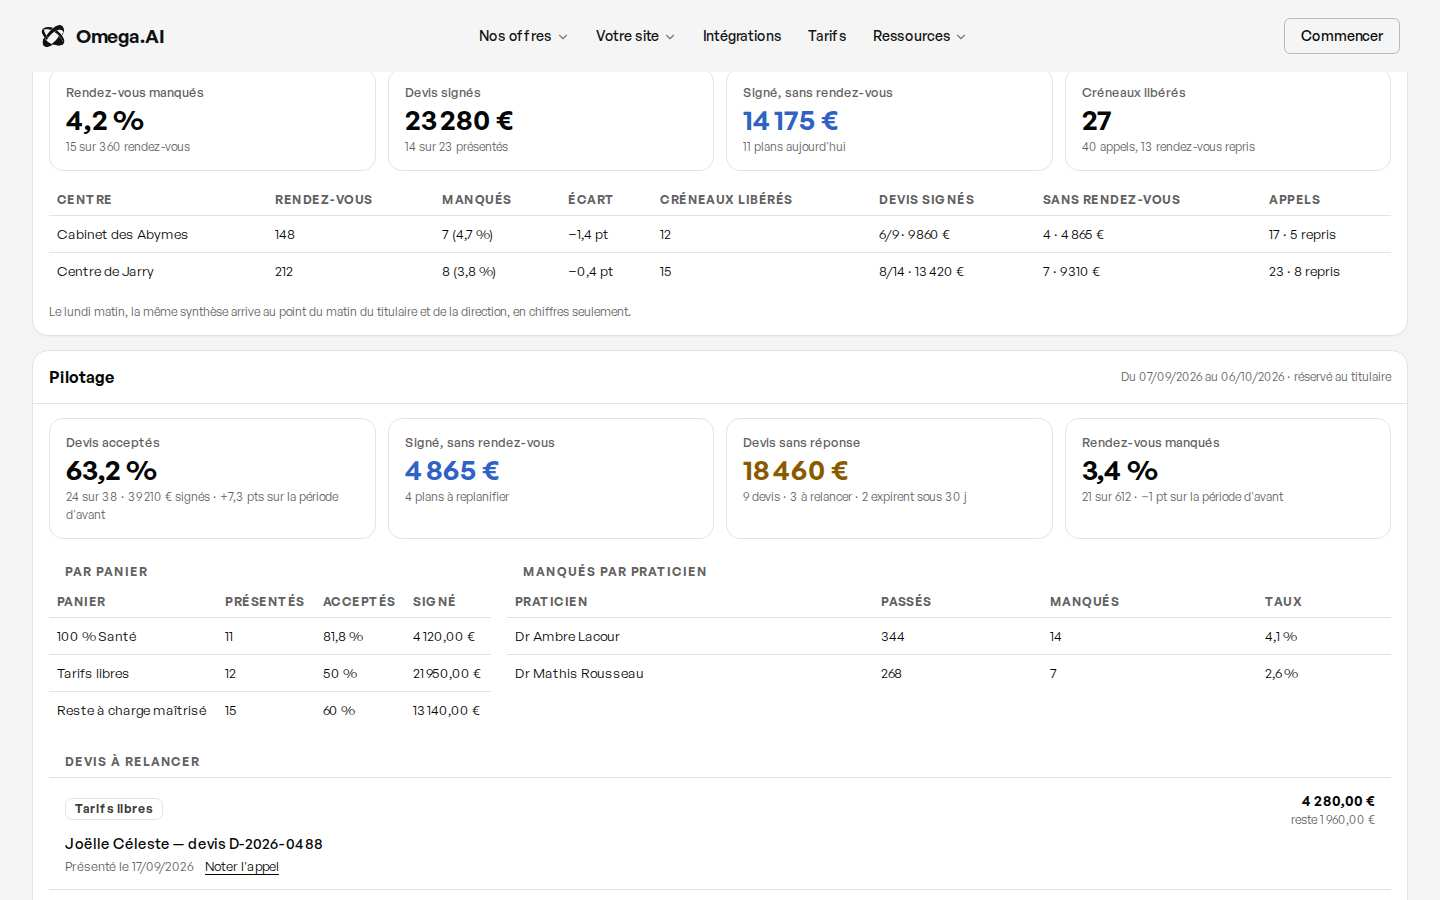
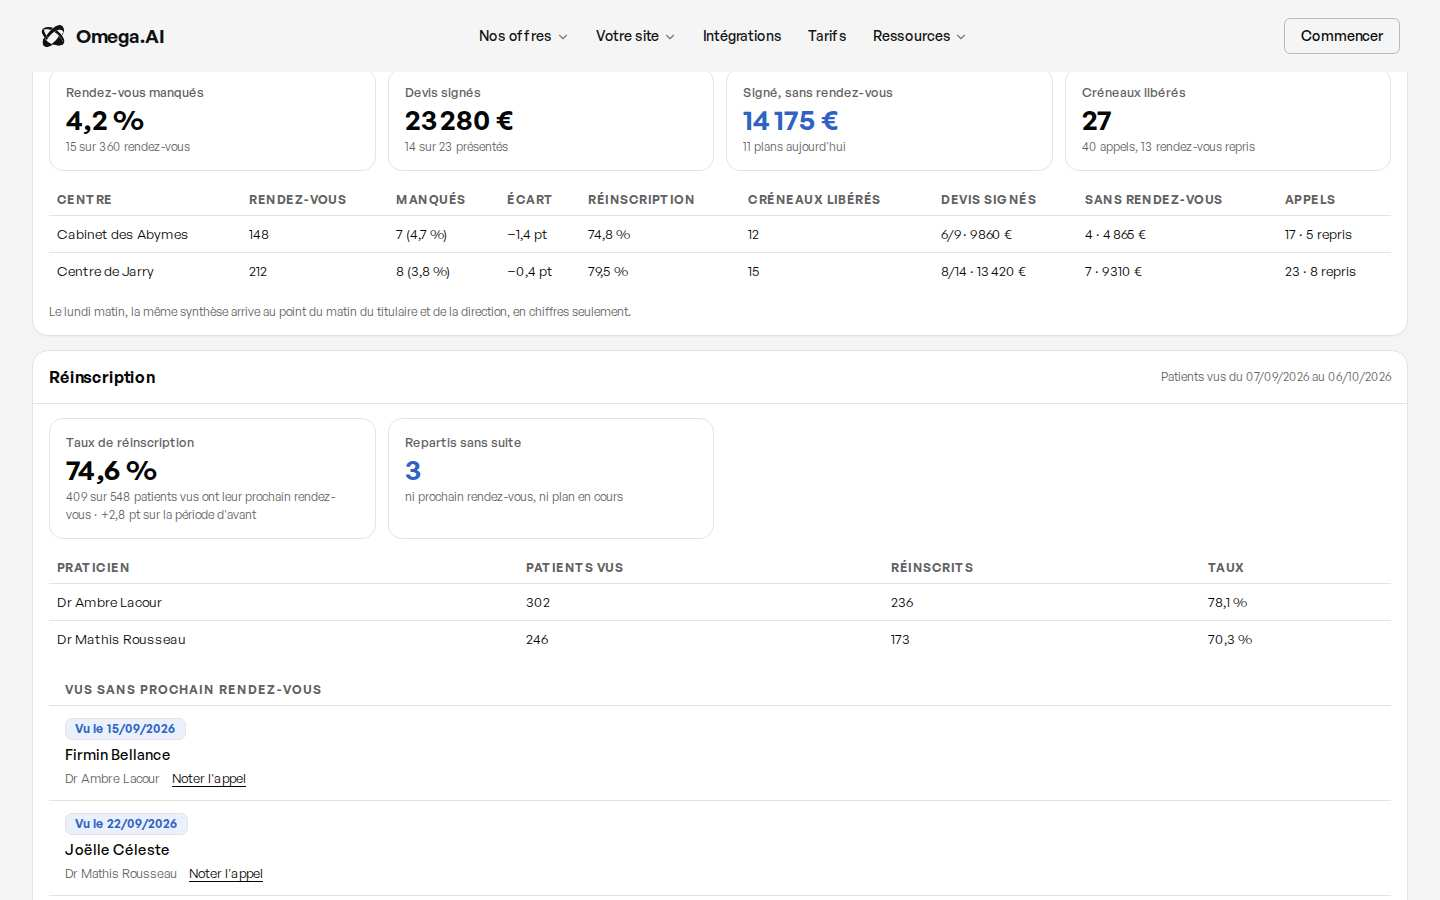
TIROMA (B3) : écran — carte « Réinscription », colonne réinscription dans la synthèse
Claude-Session: https://claude.ai/code/session_016947vqqcuBzgihDxHt7Aoo

diff --git a/components/espace/tiroma/Reinscription.tsx b/components/espace/tiroma/Reinscription.tsx
@@ -1,0 +1,85 @@
+"use client";
+
+/* La section « Réinscription » (06/10/2026, session B3, b3_16) : parmi les
+   patients vus ces trente derniers jours, la part qui a déjà son prochain
+   rendez-vous, et la période d'avant. Pour le titulaire et la direction, le
+   détail par praticien. Pour l'équipe, les patients repartis sans prochain
+   rendez-vous ni plan en cours : la liste des appels à refaire (la direction
+   n'y voit pas de nom). */
+
+import { Pastille, Vide } from "../ui";
+import { dateCourte } from "../format";
+import type { CibleAppel, Reinscription as ReinscriptionT } from "./types";
+
+function taux(v: number | null | undefined): string {
+  if (v === null || v === undefined) return "—";
+  return `${(v * 100).toLocaleString("fr-FR", { maximumFractionDigits: 1 })} %`;
+}
+
+export default function Reinscription({ reinscription, appeler }: { reinscription: ReinscriptionT | null; appeler?: (c: CibleAppel) => void }) {
+  if (!reinscription) return null;
+  const r = reinscription;
+  const ecart = r.taux !== null && r.precedent.taux !== null ? Math.round((r.taux - r.precedent.taux) * 1000) / 10 : null;
+  return (
+    <section id="tiroma-reinscription" className="esp-carte" aria-label="Réinscription">
+      <div className="esp-carte-tete">
+        <h2 className="esp-carte-titre">Réinscription</h2>
+        <span className="esp-kpi-sous">Patients vus du {dateCourte(r.periode.du)} au {dateCourte(r.periode.au)}</span>
+      </div>
+      <div className="esp-carte-corps" style={{ display: "grid", gap: 14 }}>
+        <div className="esp-kpis" style={{ marginBottom: 0 }}>
+          <div className="esp-kpi" data-teinte={r.taux !== null && r.taux < 0.6 ? "ambre" : undefined}>
+            <span className="esp-kpi-etiquette">Taux de réinscription</span>
+            <span className="esp-kpi-valeur">{taux(r.taux)}</span>
+            <span className="esp-kpi-sous">
+              {r.reinscrits} sur {r.visites} patients vus ont leur prochain rendez-vous
+              {ecart !== null ? ` · ${ecart === 0 ? "comme" : `${ecart > 0 ? "+" : "−"}${Math.abs(ecart).toLocaleString("fr-FR")} pt sur`} la période d'avant` : ""}
+            </span>
+          </div>
+          <div className="esp-kpi" data-teinte={r.sans_suite.length ? "bleu" : undefined}>
+            <span className="esp-kpi-etiquette">Repartis sans suite</span>
+            <span className="esp-kpi-valeur">{r.sans_suite.length}</span>
+            <span className="esp-kpi-sous">ni prochain rendez-vous, ni plan en cours</span>
+          </div>
+        </div>
+
+        {r.par_praticien.length ? (
+          <div className="esp-tableau-cadre" tabIndex={0} role="region" aria-label="Réinscription par praticien (tableau qui défile)">
+            <table className="esp-tableau">
+              <thead><tr><th>Praticien</th><th>Patients vus</th><th>Réinscrits</th><th>Taux</th></tr></thead>
+              <tbody>
+                {r.par_praticien.map((p) => (
+                  <tr key={p.praticien_id ?? "sans"}><td>{p.nom ?? "Sans praticien"}</td><td>{p.visites}</td><td>{p.reinscrits}</td><td>{taux(p.taux)}</td></tr>
+                ))}
+              </tbody>
+            </table>
+          </div>
+        ) : null}
+
+        <div>
+          <h3 className="esp-groupe-titre">Vus sans prochain rendez-vous</h3>
+          {!r.sans_suite.length ? (
+            <Vide titre="Personne à rappeler">Chaque patient vu ces trente derniers jours a son prochain rendez-vous, un plan en cours, ou un appel noté récemment.</Vide>
+          ) : (
+            <ul className="esp-liste" aria-label="Patients vus sans prochain rendez-vous">
+              {r.sans_suite.map((s) => (
+                <li key={s.patient_id} className="esp-item" style={{ cursor: "default" }}>
+                  <span className="esp-item-haut"><Pastille teinte="bleu" contour>Vu le {dateCourte(s.derniere_visite)}</Pastille></span>
+                  <span className="esp-item-titre">{s.patient_nom}</span>
+                  <span className="esp-item-bas">
+                    {s.praticien ? <span>{s.praticien}</span> : null}
+                    {appeler && s.patient_nom !== "Patient du cabinet" ? (
+                      <button type="button" className="esp-lien-bouton" onClick={() => appeler({ patient_id: s.patient_id, patient_nom: s.patient_nom, motif: "controle", plan_id: null, evenement_id: null })}>
+                        Noter l&apos;appel
+                      </button>
+                    ) : null}
+                  </span>
+                </li>
+              ))}
+            </ul>
+          )}
+        </div>
+      </div>
+    </section>
+  );
+}

diff --git a/components/espace/tiroma/exemple.ts b/components/espace/tiroma/exemple.ts
@@ -251,17 +251,34 @@ export const DOSSIER_EXEMPLE: Dossier = {
         rdv: { passes: 148, honores: 141, manques: 7, annules: 12, taux_manques: 0.047 }, creneaux: { liberes: 12 },
         devis: { presentes: 9, signes: 6, taux: 0.667, montant_signe: 9860 }, plans_sans_rdv: { nombre: 4, montant: 4865 },
         appels: { appels: 17, rdv_pris: 6, confirmes: 5 }, rappels: { prepares: 61, envoyes: 0, retenus: 61 },
-        precedent: { taux_manques: 0.061, devis_signes: 4, devis_taux: 0.5, passes: 152 },
+        reinscription: { visites: 131, reinscrits: 98, taux: 0.748 },
+        precedent: { taux_manques: 0.061, devis_signes: 4, devis_taux: 0.5, passes: 152, reinscription_taux: 0.712 },
       },
       {
         entite_id: "00000000-0000-4000-8000-0000000000e2", nom: "Centre de Jarry",
         rdv: { passes: 212, honores: 204, manques: 8, annules: 15, taux_manques: 0.038 }, creneaux: { liberes: 15 },
         devis: { presentes: 14, signes: 8, taux: 0.571, montant_signe: 13420 }, plans_sans_rdv: { nombre: 7, montant: 9310 },
         appels: { appels: 23, rdv_pris: 9, confirmes: 8 }, rappels: { prepares: 88, envoyes: 0, retenus: 88 },
-        precedent: { taux_manques: 0.042, devis_signes: 9, devis_taux: 0.6, passes: 205 },
+        reinscription: { visites: 190, reinscrits: 151, taux: 0.795 },
+        precedent: { taux_manques: 0.042, devis_signes: 9, devis_taux: 0.6, passes: 205, reinscription_taux: 0.781 },
       },
     ],
     total: { passes: 360, manques: 15, taux_manques: 0.042, creneaux_liberes: 27, devis_presentes: 23, devis_signes: 14, montant_signe: 23280,
-             plans_sans_rdv: 11, montant_plans_sans_rdv: 14175, appels: 40, rdv_confirmes: 13 },
+             plans_sans_rdv: 11, montant_plans_sans_rdv: 14175, appels: 40, rdv_confirmes: 13, visites: 321, reinscrits: 249, reinscription_taux: 0.776 },
+  },
+  /* b3_16 : trente jours de réinscription */
+  reinscription: {
+    periode: { du: aujourdHui(-29), au: aujourdHui(0), jours: 30 },
+    visites: 548, reinscrits: 409, taux: 0.746,
+    precedent: { taux: 0.718, visites: 531 },
+    par_praticien: [
+      { praticien_id: P1, nom: "Dr Ambre Lacour", visites: 302, reinscrits: 236, taux: 0.781 },
+      { praticien_id: P2, nom: "Dr Mathis Rousseau", visites: 246, reinscrits: 173, taux: 0.703 },
+    ],
+    sans_suite: [
+      { patient_id: "pa-18", patient_nom: "Firmin Bellance", derniere_visite: aujourdHui(-21), praticien: "Dr Ambre Lacour" },
+      { patient_id: "pa-19", patient_nom: "Joëlle Céleste", derniere_visite: aujourdHui(-14), praticien: "Dr Mathis Rousseau" },
+      { patient_id: "pa-20", patient_nom: "Hugo Ternel", derniere_visite: aujourdHui(-6), praticien: "Dr Mathis Rousseau" },
+    ],
   },
 };

diff --git a/components/espace/tiroma/portes.ts b/components/espace/tiroma/portes.ts
@@ -22,7 +22,7 @@
 import { createClient } from "@/lib/supabase/client";
 import type {
   Attente, Cabinet, CapaciteLue, Charge, Creneau, Dossier, Fauteuil, Fermeture, Horaire, Logiciel, Membre, PatientCourt, PlanSansRdv, Praticien, Profil,
-  Regles, Releve, TypeRdv, Verification, RegistreAppels, CibleAppel, IssueAppel, Pilotage, Rappels, CanalPatient, ContactPatient, Synthese,
+  Regles, Releve, TypeRdv, Verification, RegistreAppels, CibleAppel, IssueAppel, Pilotage, Rappels, CanalPatient, ContactPatient, Synthese, Reinscription,
 } from "./types";
 
 export class ErreurPorte extends Error {}
@@ -116,8 +116,10 @@ export async function chargerDossier(cabinet: Cabinet, compte: Compte): Promise<
   const rappels = profil && profil !== "direction" ? await quiet(rpc<Rappels | null>("tiroma_rappels", { p_client: c, p_entite: e }, null), null, "rappels aux patients") : null;
   /* b3_15 : la synthèse de la semaine, pour le titulaire et la direction (tous leurs centres) */
   const synthese = profil === "titulaire" || profil === "direction" ? await quiet(rpc<Synthese | null>("tiroma_synthese_semaine", { p_client: c, p_entite: null, p_lundi: null }, null), null, "synthèse de la semaine") : null;
+  /* b3_16 : la réinscription (titulaire, assistante, direction) */
+  const reinscription = profil === "titulaire" || profil === "assistante" || profil === "direction" ? await quiet(rpc<Reinscription | null>("tiroma_reinscription", { p_client: c, p_entite: e, p_jours: 30 }, null), null, "réinscription") : null;
   return {
-    dossier: { cabinet, profil, fauteuils, praticiens, membres, horaires, fermetures, regles, releves, capacites, types, attente, creneaux, plans, verifications, charge, appels, pilotage, rappels, synthese },
+    dossier: { cabinet, profil, fauteuils, praticiens, membres, horaires, fermetures, regles, releves, capacites, types, attente, creneaux, plans, verifications, charge, appels, pilotage, rappels, synthese, reinscription },
     avis,
   };
 }

diff --git a/components/espace/tiroma/SyntheseSemaine.tsx b/components/espace/tiroma/SyntheseSemaine.tsx
@@ -3,7 +3,7 @@
 /* La section « Synthèse de la semaine » (06/10/2026, session B3, b3_15) :
    pour le titulaire et la direction, la dernière semaine complète de chaque
    centre et leur total. Rendez-vous et manqués (et l'écart avec la semaine
-   d'avant), créneaux libérés, devis signés, plans signés sans rendez-vous,
+   d'avant), réinscription (b3_16), créneaux libérés, devis signés, plans signés sans rendez-vous,
    appels et rendez-vous repris. Des chiffres, jamais un nom. Le lundi, la
    même ligne part au point du matin. */
 
@@ -65,7 +65,7 @@ export default function SyntheseSemaine({ synthese }: { synthese: Synthese | nul
         <div className="esp-tableau-cadre" tabIndex={0} role="region" aria-label="Synthèse par centre (tableau qui défile)">
           <table className="esp-tableau">
             <thead>
-              <tr><th>Centre</th><th>Rendez-vous</th><th>Manqués</th><th>Écart</th><th>Créneaux libérés</th><th>Devis signés</th><th>Sans rendez-vous</th><th>Appels</th></tr>
+              <tr><th>Centre</th><th>Rendez-vous</th><th>Manqués</th><th>Écart</th><th>Réinscription</th><th>Créneaux libérés</th><th>Devis signés</th><th>Sans rendez-vous</th><th>Appels</th></tr>
             </thead>
             <tbody>
               {synthese.cabinets.map((c) => (
@@ -74,6 +74,7 @@ export default function SyntheseSemaine({ synthese }: { synthese: Synthese | nul
                   <td>{c.rdv.passes}</td>
                   <td>{c.rdv.manques} ({taux(c.rdv.taux_manques)})</td>
                   <td>{ecart(c) ?? "—"}</td>
+                  <td>{taux(c.reinscription?.taux)}</td>
                   <td>{c.creneaux.liberes}</td>
                   <td>{c.devis.signes}/{c.devis.presentes} · {euros(c.devis.montant_signe)}</td>
                   <td>{c.plans_sans_rdv.nombre} · {euros(c.plans_sans_rdv.montant)}</td>

diff --git a/components/espace/tiroma/types.ts b/components/espace/tiroma/types.ts
@@ -279,6 +279,7 @@ export type Dossier = {
   pilotage: Pilotage | null;
   rappels: Rappels | null;
   synthese: Synthese | null;
+  reinscription: Reinscription | null;
 };
 
 /* ——— le registre des appels (b3_12) ——— */
@@ -414,7 +415,8 @@ export type SyntheseCabinet = {
   plans_sans_rdv: { nombre: number; montant: number };
   appels: { appels: number; rdv_pris: number; confirmes: number };
   rappels: { prepares: number; envoyes: number; retenus: number };
-  precedent?: { taux_manques: number | null; devis_signes: number | null; devis_taux: number | null; passes: number | null };
+  reinscription?: { visites: number; reinscrits: number; taux: number | null };
+  precedent?: { taux_manques: number | null; devis_signes: number | null; devis_taux: number | null; passes: number | null; reinscription_taux?: number | null };
 };
 
 export type Synthese = {
@@ -423,5 +425,18 @@ export type Synthese = {
   total: {
     passes: number; manques: number; taux_manques: number | null; creneaux_liberes: number; devis_presentes: number; devis_signes: number;
     montant_signe: number; plans_sans_rdv: number; montant_plans_sans_rdv: number; appels: number; rdv_confirmes: number;
+    visites?: number; reinscrits?: number; reinscription_taux?: number | null;
   };
+};
+
+/* ——— la réinscription (b3_16) ——— */
+
+export type Reinscription = {
+  periode: { du: string; au: string; jours: number };
+  visites: number;
+  reinscrits: number;
+  taux: number | null;
+  precedent: { taux: number | null; visites: number | null };
+  par_praticien: { praticien_id: string | null; nom: string | null; visites: number; reinscrits: number; taux: number | null }[];
+  sans_suite: { patient_id: string; patient_nom: string; derniere_visite: string; praticien: string | null }[];
 };

diff --git a/components/espace/tiroma/EcranTiroma.tsx b/components/espace/tiroma/EcranTiroma.tsx
@@ -28,6 +28,7 @@ import ListeAttente, { type Inscription, type Retrait } from "./ListeAttente";
 import Pilotage from "./Pilotage";
 import Plans, { type Mutuelle } from "./Plans";
 import Rappels, { type NouveauContact } from "./Rappels";
+import Reinscription from "./Reinscription";
 import SyntheseSemaine from "./SyntheseSemaine";
 import { DOSSIER_EXEMPLE } from "./exemple";
 import { LOGICIELS, libelleLogiciel } from "./libelles";
@@ -375,6 +376,7 @@ export default function EcranTiroma() {
           </div>
           <Appels registre={dossier.appels} titulaire={titulaire} appeler={setCibleAppel} />
           <SyntheseSemaine synthese={dossier.profil === "titulaire" || dossier.profil === "direction" ? dossier.synthese : null} />
+          <Reinscription reinscription={dossier.reinscription} appeler={dossier.appels ? setCibleAppel : undefined} />
           <Pilotage pilotage={dossier.profil === "titulaire" || dossier.profil === "direction" ? dossier.pilotage : null} appeler={dossier.appels ? setCibleAppel : undefined} />
           <div className="esp-grille">
             <AvantRendezVous verifications={dossier.verifications} jours={dossier.regles?.labo_verif_jours ?? 2} />
